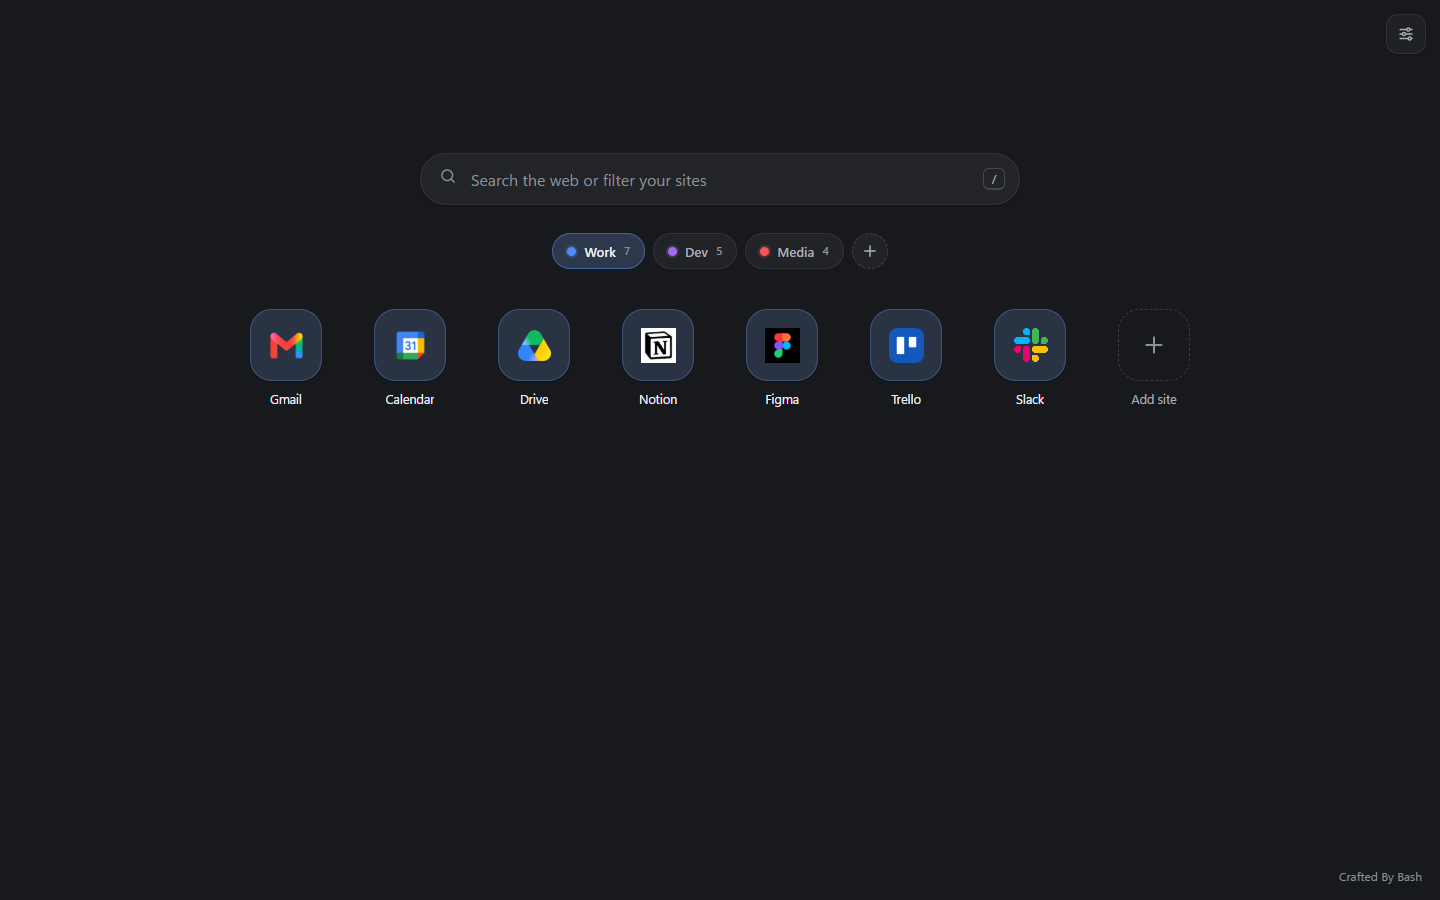
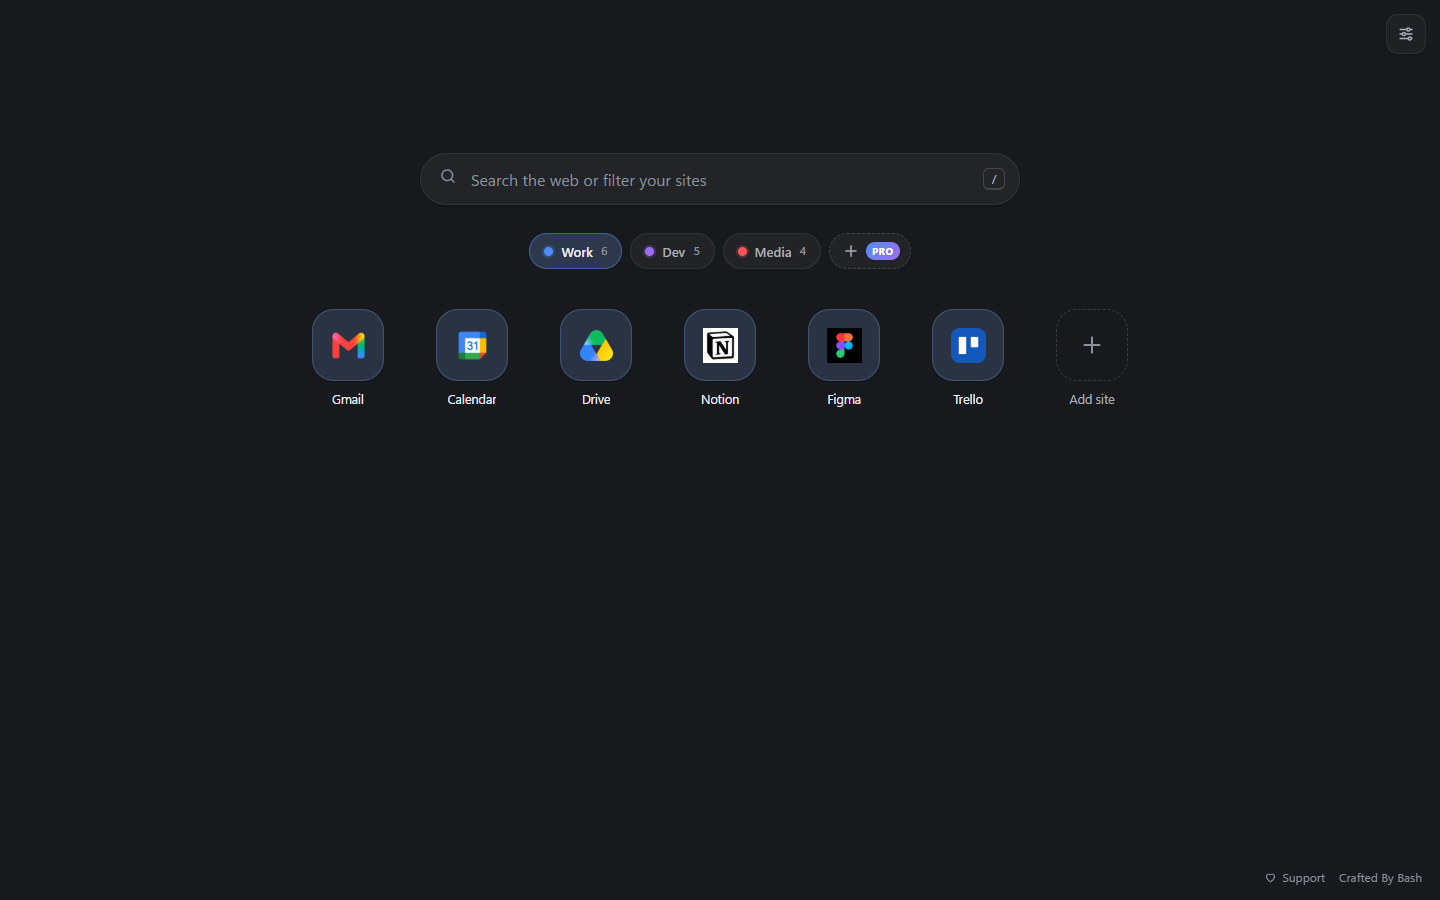
Retake store screenshots from the current build, add a Pro screenshot
tools/readme-media/store-screenshots.mjs captures the six Chrome Web
Store screenshots (1280x800) and the README gallery from the real
extension with demo data, so the set can be regenerated whenever the
UI changes. The new set shows the Pro badge and Support link, adds a
sixth screenshot of the Pro screen, and shows the regular $3.99 price
so it stays valid after the launch discount ends. Demo data moved to
demo-data.mjs, shared with demo-gif.mjs.

diff --git a/assets/media-pack/README.md b/assets/media-pack/README.md
@@ -16,6 +16,7 @@ The repository currently grants no open-source license; its README states that s
 | Store screenshot 3 | `chrome-web-store/screenshot-03-tile-editor-1280x800.png` | 1280 × 800 PNG |
 | Store screenshot 4 | `chrome-web-store/screenshot-04-settings-1280x800.png` | 1280 × 800 PNG |
 | Store screenshot 5 | `chrome-web-store/screenshot-05-tile-menu-1280x800.png` | 1280 × 800 PNG |
+| Store screenshot 6 | `chrome-web-store/screenshot-06-pro-1280x800.png` | 1280 × 800 PNG |
 | README banner proposal | `repository/readme-banner-1280x480.png` | 1280 × 480 PNG |
 | GitHub social preview | `repository/social-preview-1280x640.png` | 1280 × 640 PNG |
 | Current manifest icon copies | `icons/extension-icon-{16,32,48,128}.png` | Existing extension sizes |
@@ -24,7 +25,7 @@ The repository currently grants no open-source license; its README states that s
 
 ## Submission checks
 
-1. Confirm the screenshots show the version being submitted. They were made from the repository's saved captures, not from a newly run browser session.
+1. Confirm the screenshots show the version being submitted. Regenerate all six, plus the README gallery, from the current build with `node tools/readme-media/store-screenshots.mjs`; it uses demo data only and shows the regular Pro price, so the set stays valid after the launch discount ends.
 2. Upload the store icon, small promo tile, and at least one screenshot. All five recommended screenshot slots are supplied in display order; the marquee is optional.
 3. Review and publish a privacy policy and complete the store's data disclosures. Describe the optional Google favicon lookup, linked images, and default-engine search accurately.
 4. Verify that the support, privacy, and homepage URLs are public before entering them in the listing. The public repository URL returned 404 without authentication on 2026-09-30.
@@ -37,6 +38,7 @@ The repository currently grants no open-source license; its README states that s
 3. Edit a tile's address, group, image, and color.
 4. Theme, layout, background, and backup settings.
 5. Open a tile menu to edit, move, or delete a site.
+6. Speed Dial Pro: unlimited groups for a one-time purchase, free for the first 100 early birds.
 
 ## Design references
 
